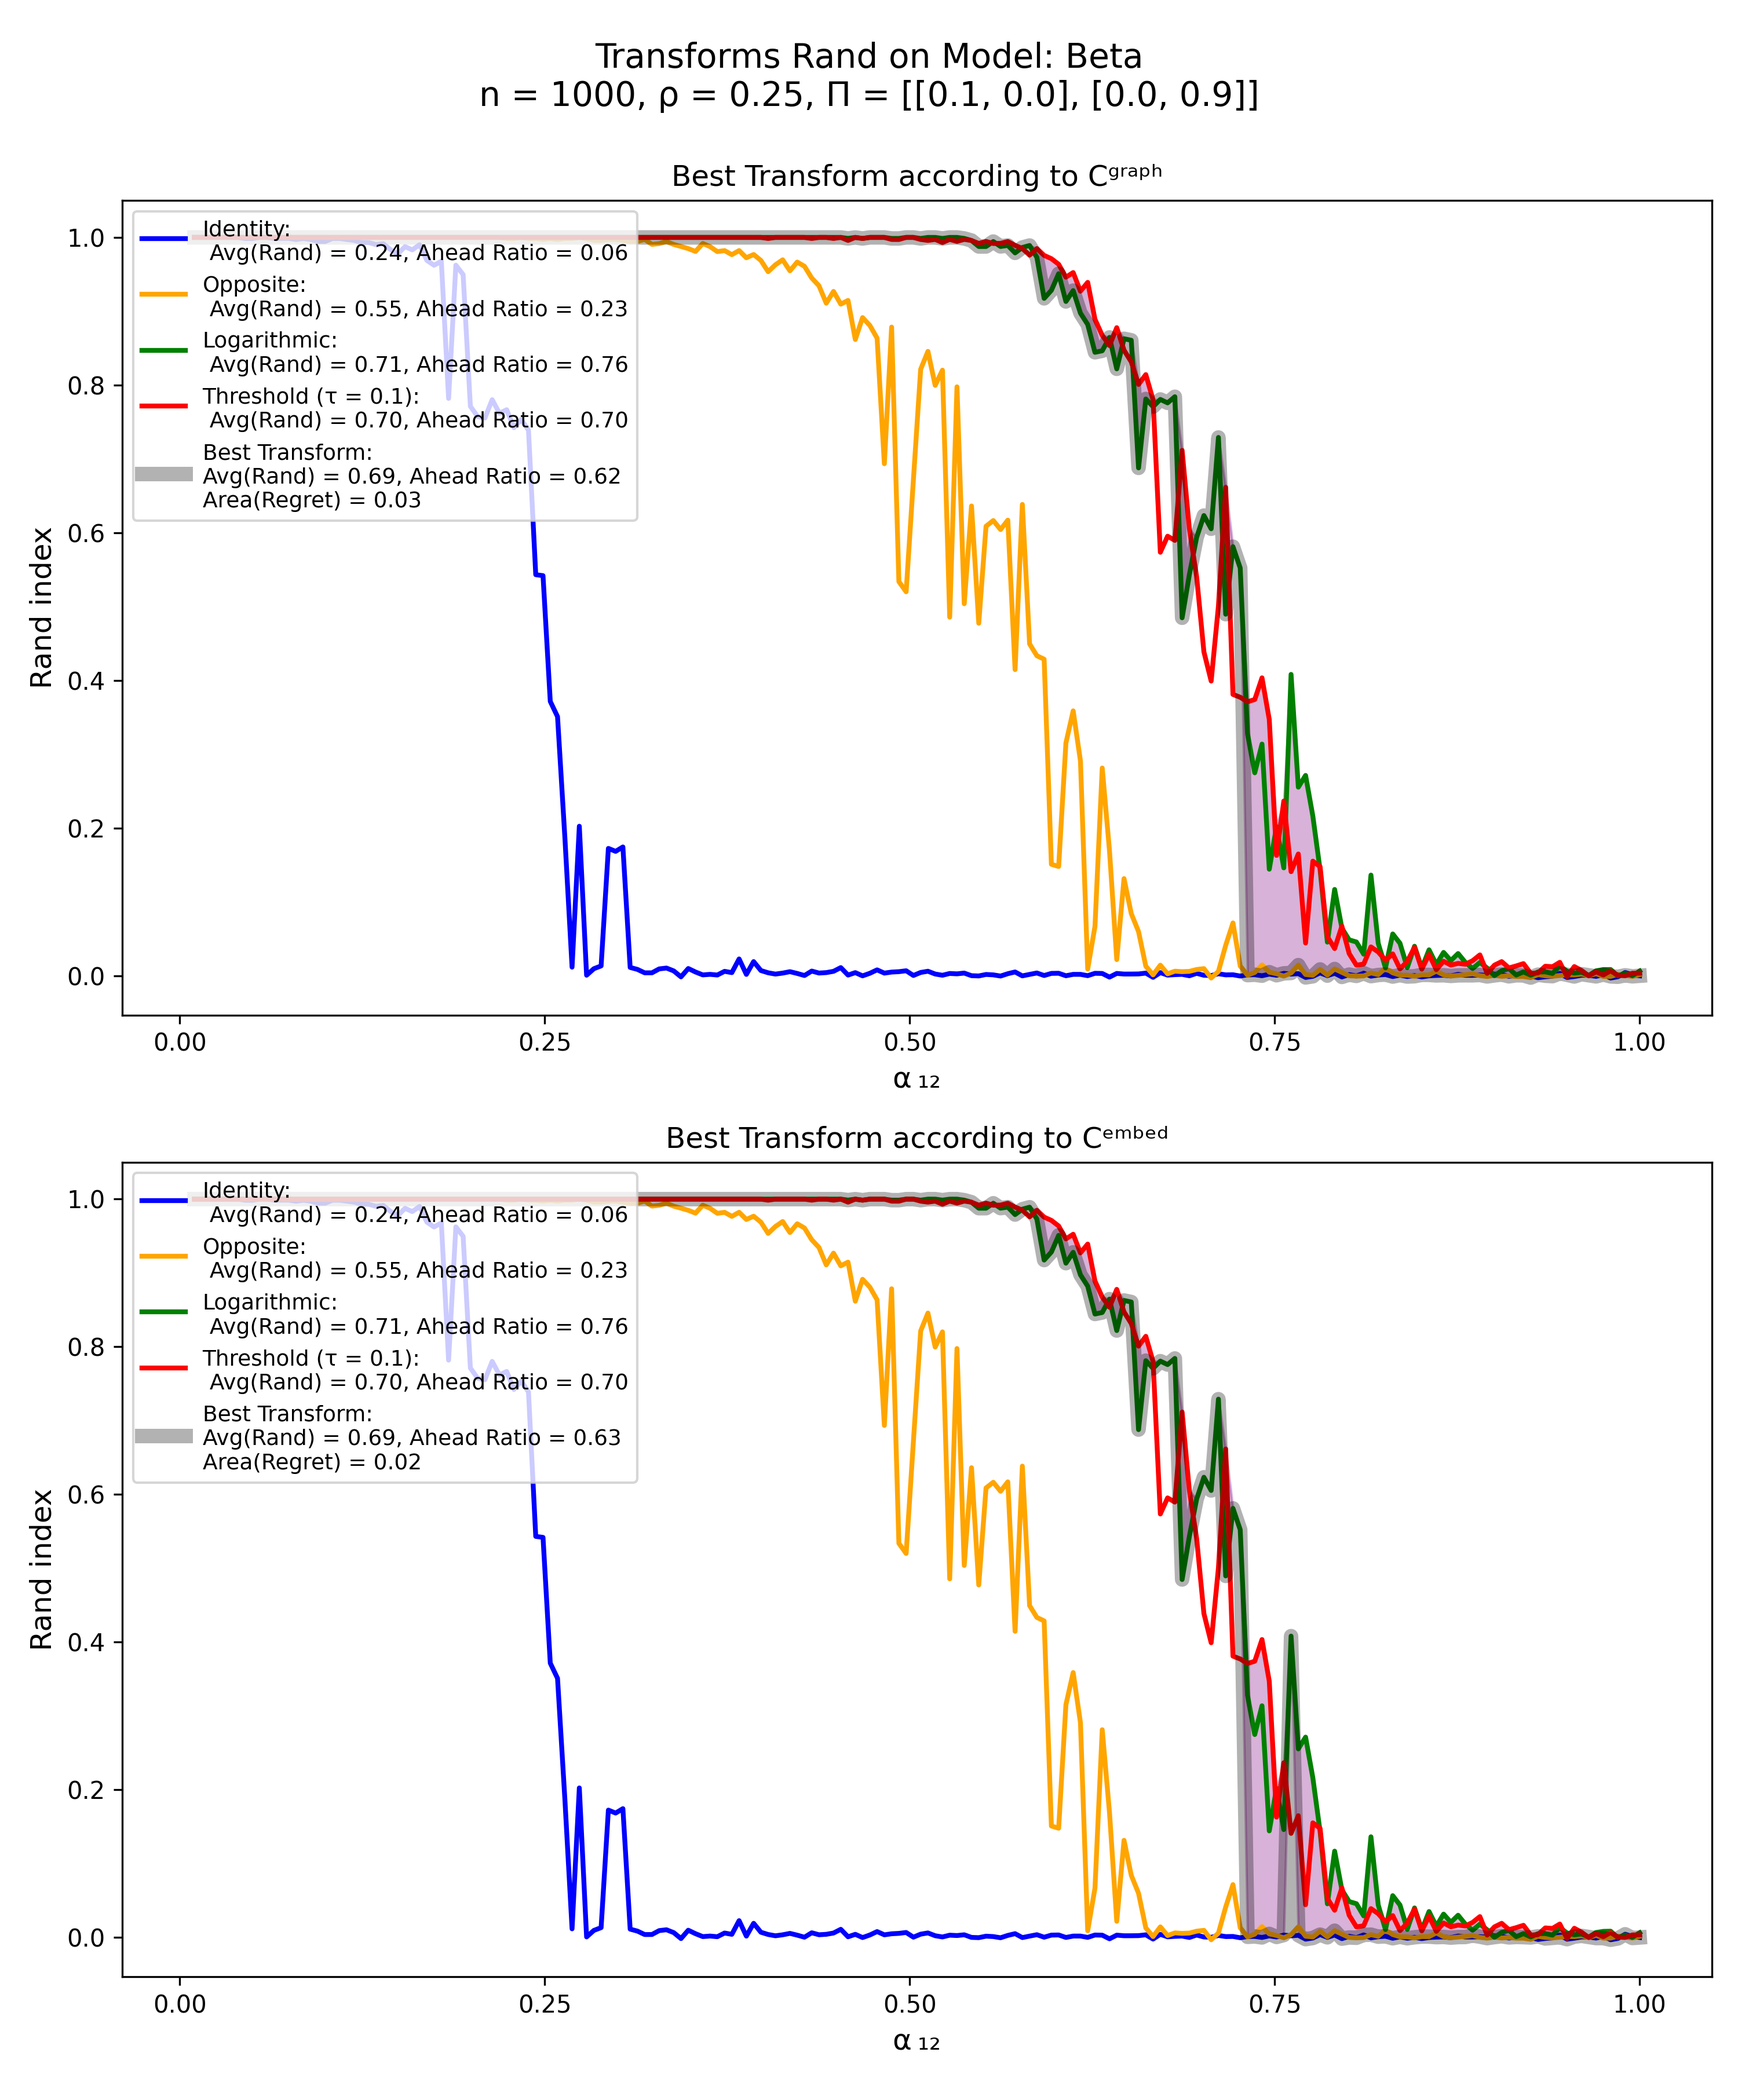
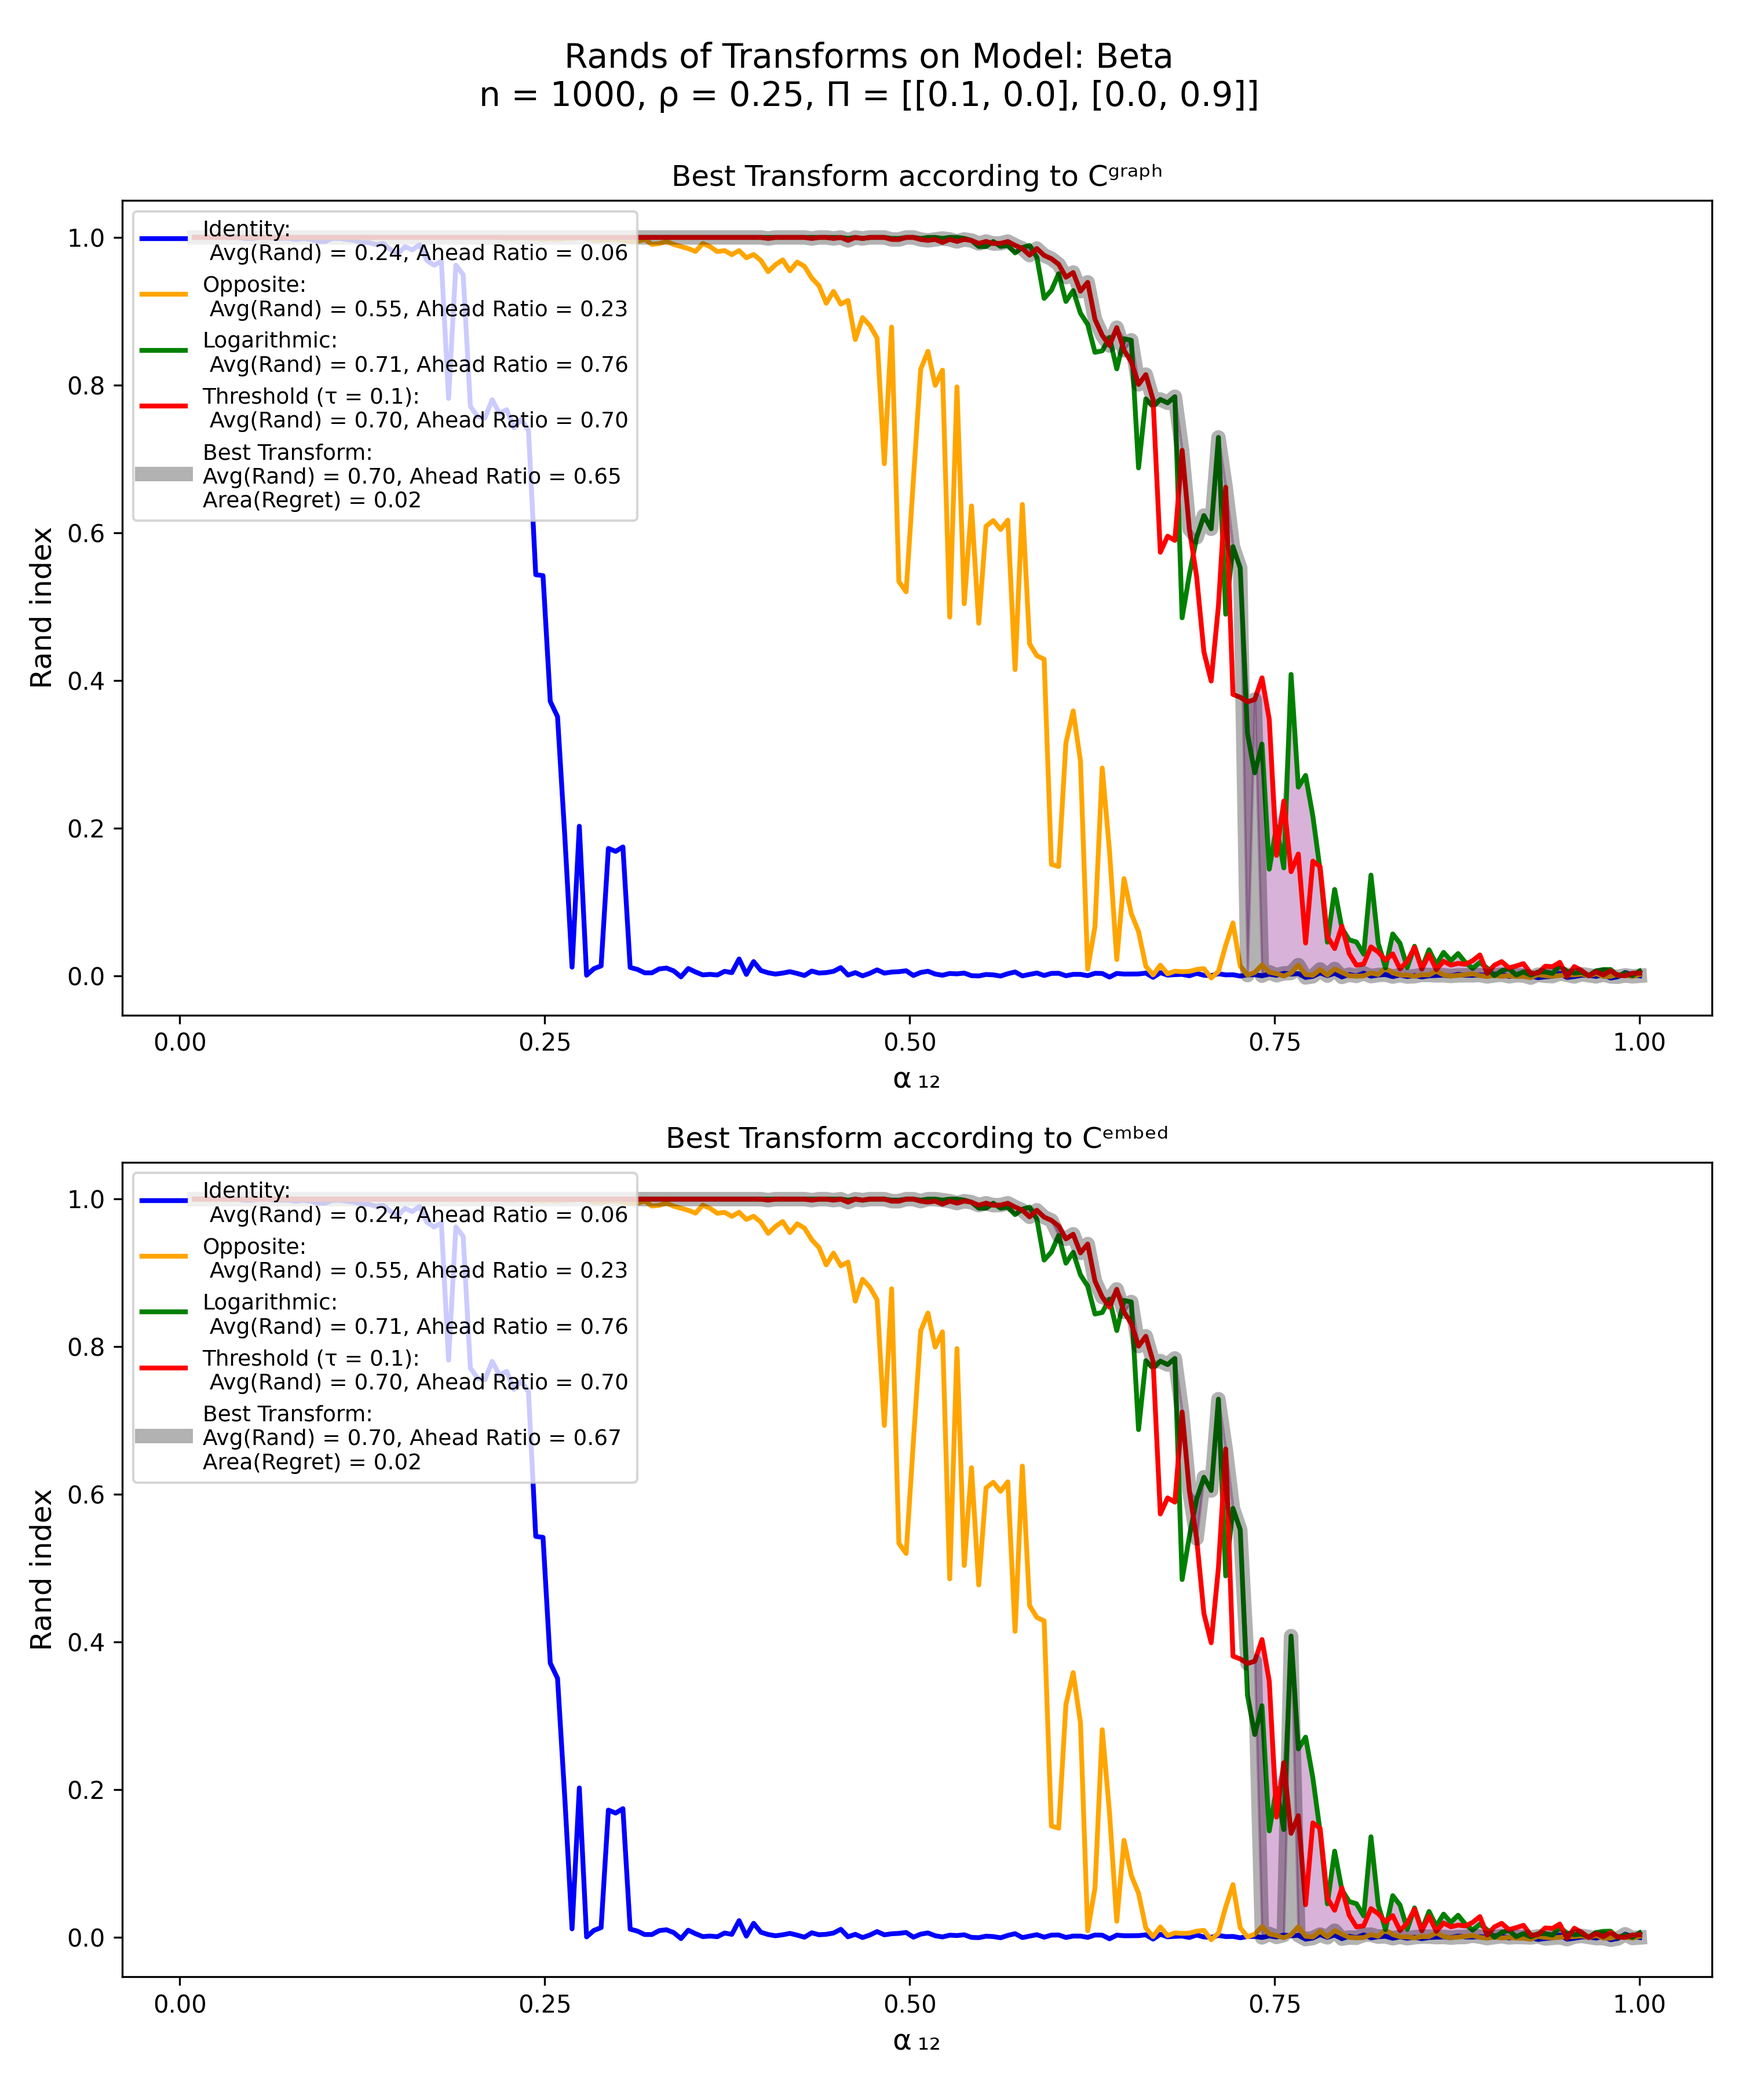
my nice commit

diff --git a/Plotting/Plotting.py b/Plotting/Plotting.py
@@ -365,8 +365,7 @@ def plot_best_transform_heatmaps(rho, pi, model, metrics, n=n):
 				cmap = ListedColormap(list(TRANSFORMS_CMAP.values())[:-1])
 				norm = BoundaryNorm(np.arange(-0.5, cmap.N + 0.5, 1), cmap.N)
 				ax.pcolormesh(grid, cmap = cmap, norm = norm, shading='auto')
-				area = np.bincount(grid.ravel(), minlength = len(TRANSFORMS)) / N ** 2
-				area_map = dict(zip(TRANSFORMS, area))
+				area_map = dict(zip(TRANSFORMS, metrics[row]['Transform Area']))
 				sorted_TRANSFORMS = sorted(TRANSFORMS, key=lambda t: area_map[t], reverse=True)
 				handles = [Patch(facecolor=TRANSFORMS_CMAP[t], label=f'{t.id}: {area_map[t]:.2f}') 
 			   			   for t in sorted_TRANSFORMS]
@@ -377,7 +376,7 @@ def plot_best_transform_heatmaps(rho, pi, model, metrics, n=n):
 				sns.heatmap(grid, ax=ax, norm=norm, cmap = 'Reds')
 
 				mean_rand_transforms_map = {t: np.mean(metrics[t]['Rand']) for t in TRANSFORMS}
-				mean_rand_transforms_map['Argmax'] = np.mean(grid)
+				mean_rand_transforms_map['Argmax'] = metrics[row]['Rand Avg']
 				case = lambda t : t.id if t != 'Argmax' else 'Best'
 				sorted_TRANSFORMS = sorted(TRANSFORMS + ['Argmax'], key=lambda t: mean_rand_transforms_map[t], reverse=True)
 				handles = [Patch(facecolor=TRANSFORMS_CMAP[t], label=f'{case(t)}: {mean_rand_transforms_map[t]:.2f}') 
@@ -387,9 +386,9 @@ def plot_best_transform_heatmaps(rho, pi, model, metrics, n=n):
 			else:
 				norm = colors.Normalize(vmin=0, vmax=1, clip=True)
 				sns.heatmap(grid, ax=ax, norm=norm, cmap = 'Purples')
-				avg_regret = f'Avg(Reg) = {np.mean(grid):.2f}'
-				area_positive_r = f'Area(Reg>0) = {np.count_nonzero(grid > 0) / N ** 2:.2f}'
-				avg_positive_r = f'Avg(Reg[Reg>0]) = {np.mean(grid[grid > 0]):.2f}'
+				avg_regret = f"Avg(Reg) = {metrics[row]['Regret Avg']:.2f}"
+				area_positive_r = f"Area(Reg>0) = {metrics[row]['Regret Area']:.2f}"
+				avg_positive_r = f"Avg(Reg[Reg>0]) = {metrics[row]['Regret Avg on Positive Regret']:.2f}"
 
 				handle_avg = mpatches.Patch(facecolor='none', edgecolor='none', label=avg_regret)
 				handle_area = mpatches.Patch(facecolor='none', edgecolor='none', label=area_positive_r)
@@ -421,38 +420,36 @@ def plot_best_transform_heatmaps(rho, pi, model, metrics, n=n):
 	save_file('Plots/Best_Transform', f'Grid_{model.name}_{rho}_{pi}', dpi=300)
 
 def plot_best_transform_lines(rho, pi, model, metrics, param, n=n):
-		rows = ['C_graph-Best Transform', 'C_embed-Best Transform']
+		chernoffs = ['C_graph', 'C_embed']
 		
 		fig, axes = plt.subplots(2, 1, figsize=(10, 12))
 		fig.suptitle(f"Rands of Transforms on Model: {model.name}\n" + model_str(n, rho, pi), fontsize=14)
 		
-		for ax, row in zip(axes, rows):
-			y_best = metrics[row]['Rand']
+		for ax, C in zip(axes, chernoffs):
+			mBestC = metrics[f'{C}-Best Transform']
+			y_best = mBestC['Rand']
 			N = len(y_best)
 			x = np.linspace(0.01, 1, N)
 			
-			max_rand = np.max(np.array([metrics[t]['Rand'] for t in TRANSFORMS]), axis=0)
 			
 			for t in TRANSFORMS:
 				y = metrics[t]['Rand']
 				ax.plot(x, y,
-						label=f"{t.name}:\n Avg(Rand) = {np.mean(y):.2f}, Ahead Ratio = {np.mean(y == max_rand):.2f}",
+						label=f"{t.name}:\n Avg(Rand) = {np.mean(y):.2f}, Ahead Ratio = {metrics[t]['Ahead Ratio']:.2f}",
 						color=TRANSFORMS_CMAP[t],
 						linewidth=2)
 			
-			regret_area = np.trapz(max_rand - y_best, x)
-			
 			ax.plot(x, y_best,
 					label=(f"Best Transform:\n"
-						   f"Avg(Rand) = {np.mean(y_best):.2f}, Ahead Ratio = {np.mean(y_best == max_rand):.2f}\n"
-						   f"Area(Regret) = {regret_area:.2f}"),
+						   f"Avg(Rand) = {mBestC['Rand Avg']:.2f}, Ahead Ratio = {mBestC['Ahead Ratio']:.2f}\n"
+						   f"Area(Regret) = {mBestC['Regret Avg']:.2f}"),
 					color='black',
 					linewidth=6,
 					alpha = 0.3)
 			
-			ax.fill_between(x, y_best, max_rand, color='purple', alpha=0.3)
+			ax.fill_between(x, y_best, metrics['Rand Max'], color='purple', alpha=0.3)
 			
-			title = f"Best Transform according to {METRICS_ID_COSMETIC_MAP[row[:7]]}"
+			title = f"Best Transform according to {METRICS_ID_COSMETIC_MAP[C]}"
 			ax.set_title(title, fontsize=12)
 			ax.set_xlabel(f'{model.param_name}{sub(" " + param)}', fontsize=12)
 			ax.set_ylabel("Rand index", fontsize=12)

diff --git a/Computation/ExtraMetrics.py b/Computation/ExtraMetrics.py
@@ -10,24 +10,44 @@ RHOS_PIS_MODELS = list(product(RHOS, PIS, MODELS))
 
 def best_transform_metrics(m):
 	def stack_grids(m, metric):
-		return np.stack([m[t][metric] for t in TRANSFORMS[:-1]], axis=-1)
+		return np.stack([m[t][metric] for t in TRANSFORMS], axis=-1)
 
-	C_graph = stack_grids(m, 'C_graph')
-	C_embed = stack_grids(m, 'C_embed')
-	Rand    = stack_grids(m, 'Rand')
-	max_Rand = np.max(Rand, axis=-1)
+	Rand = stack_grids(m, 'Rand')
+	m['Rand Max'] = np.max(Rand, axis=-1)
 
-	m['C_graph-Best Transform'] = {}
-	BT_arg_C_graph = np.argmax(C_graph, axis=-1).astype(int)
-	m['C_graph-Best Transform']['Arg'] = BT_arg_C_graph
-	m['C_graph-Best Transform']['Rand'] = np.take_along_axis(Rand, BT_arg_C_graph[..., None], axis=-1).squeeze(-1)
-	m['C_graph-Best Transform']['Regret'] = max_Rand - m['C_graph-Best Transform']['Rand']
+	for t in TRANSFORMS:
+		m[t]['Ahead Ratio'] = np.mean(m[t]['Rand'] == m['Rand Max'])
 
-	m['C_embed-Best Transform'] = {}
-	BT_arg_C_embed = np.argmax(C_embed, axis=-1)
-	m['C_embed-Best Transform']['Arg'] = BT_arg_C_embed.astype(int)
-	m['C_embed-Best Transform']['Rand'] = np.take_along_axis(Rand, BT_arg_C_embed[..., None], axis=-1).squeeze(-1)
-	m['C_embed-Best Transform']['Regret'] = max_Rand - m['C_embed-Best Transform']['Rand']
+	for C in ['C_graph', 'C_embed']:
+		m[f'{C}-Best Transform'] = {}
+		mBestC = m[f'{C}-Best Transform']
+		mBestC['Arg'] = np.argmax(stack_grids(m, C), axis=-1).astype(int)
+		mBestC['Transform Area'] = np.bincount(mBestC['Arg'].ravel(), minlength=len(TRANSFORMS)) / np.prod(mBestC['Arg'].shape)
+		mBestC['Rand'] = np.take_along_axis(Rand, mBestC['Arg'][..., None], axis=-1).squeeze(-1)
+		mBestC['Rand Avg'] = np.mean(mBestC['Rand'])
+
+		regret = m['Rand Max'] - mBestC['Rand']
+		mBestC['Regret'] = regret
+		mBestC['Regret Avg'] = np.mean(regret)
+		mBestC['Regret Area'] = np.count_nonzero(regret) / np.prod(regret.shape)
+		mBestC['Regret Avg on Positive Regret'] = np.mean(regret[regret > 0])
+		mBestC['Rand Avg on Positive Regret'] = np.mean(mBestC['Rand'][regret > 0])
+		mBestC['Rand Avg on Null Regret'] = np.mean(mBestC['Rand'][regret == 0])
+
+		mBestC['Ahead Ratio'] = np.mean(mBestC['Rand'] == m['Rand Max'])
+
+		for t in TRANSFORMS:
+			mBestC[t] = {}
+			idx_t = mBestC['Arg'] == TRANSFORMS.index(t)
+			mBestC[t]['Rand Avg'] = np.mean(mBestC['Rand'][idx_t])
+			regret_t = regret[idx_t]
+			mBestC[t]['Regret Avg'] = np.mean(regret_t)
+			# Relative to total area vs relative to area of the best transform (... /np.count_nonzero(idx_t))
+			mBestC[t]['Regret Area'] = np.count_nonzero(regret_t) / np.prod(regret.shape)
+			mBestC[t]['Regret Avg on Positive Regret'] = np.mean(regret_t[regret_t > 0])
+			mBestC[t]['Rand Avg on Positive Regret'] = np.mean(mBestC['Rand'][idx_t & (regret > 0)])
+			mBestC[t]['Rand Avg on Null Regret'] = np.mean(mBestC['Rand'][idx_t & (regret == 0)])
+
 
 	return m
 
